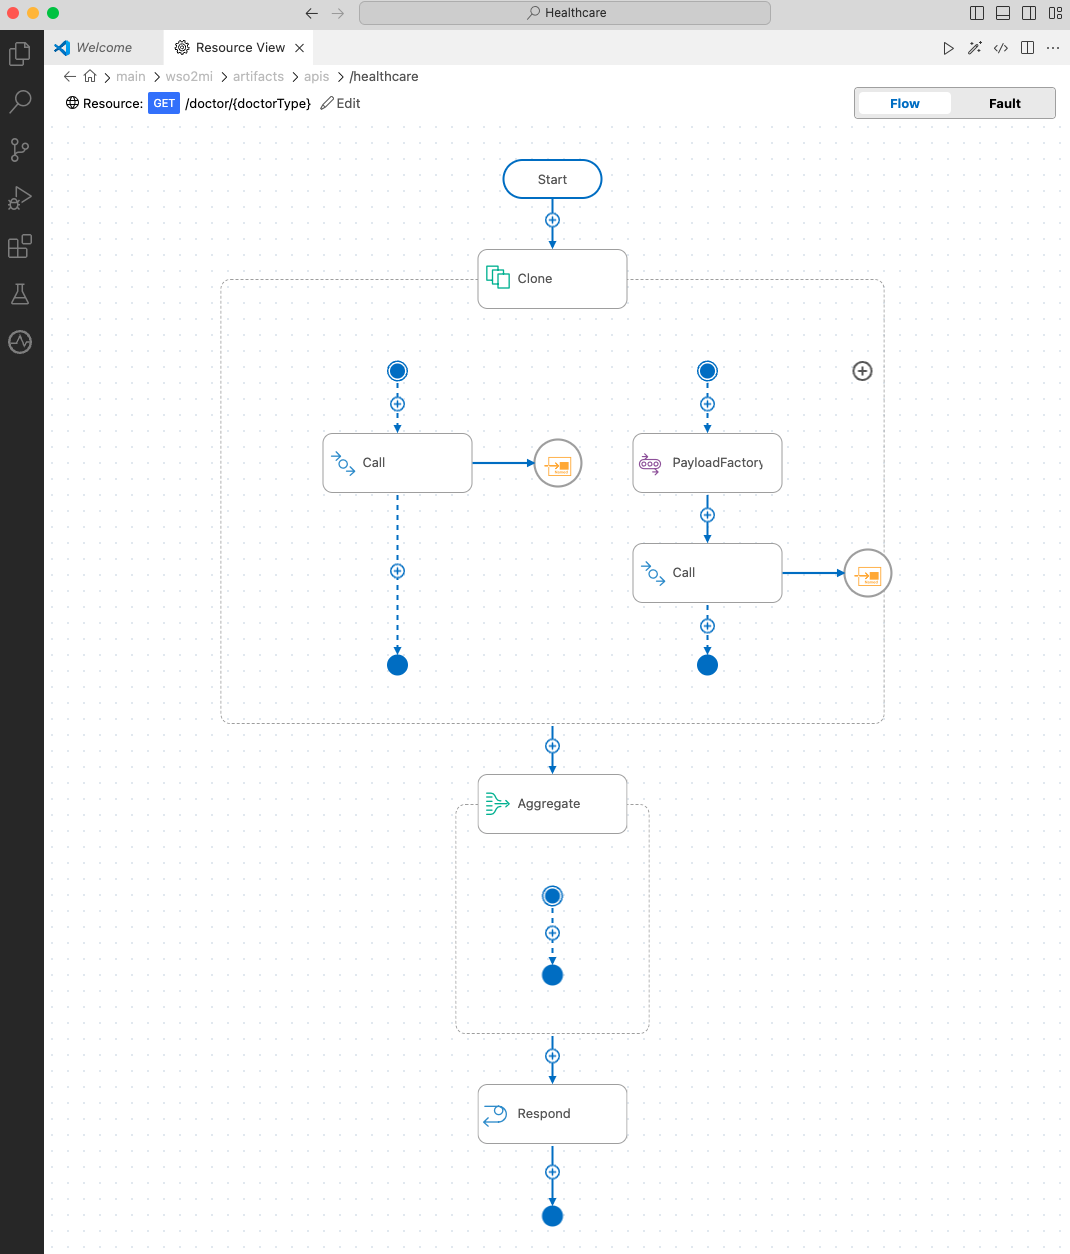
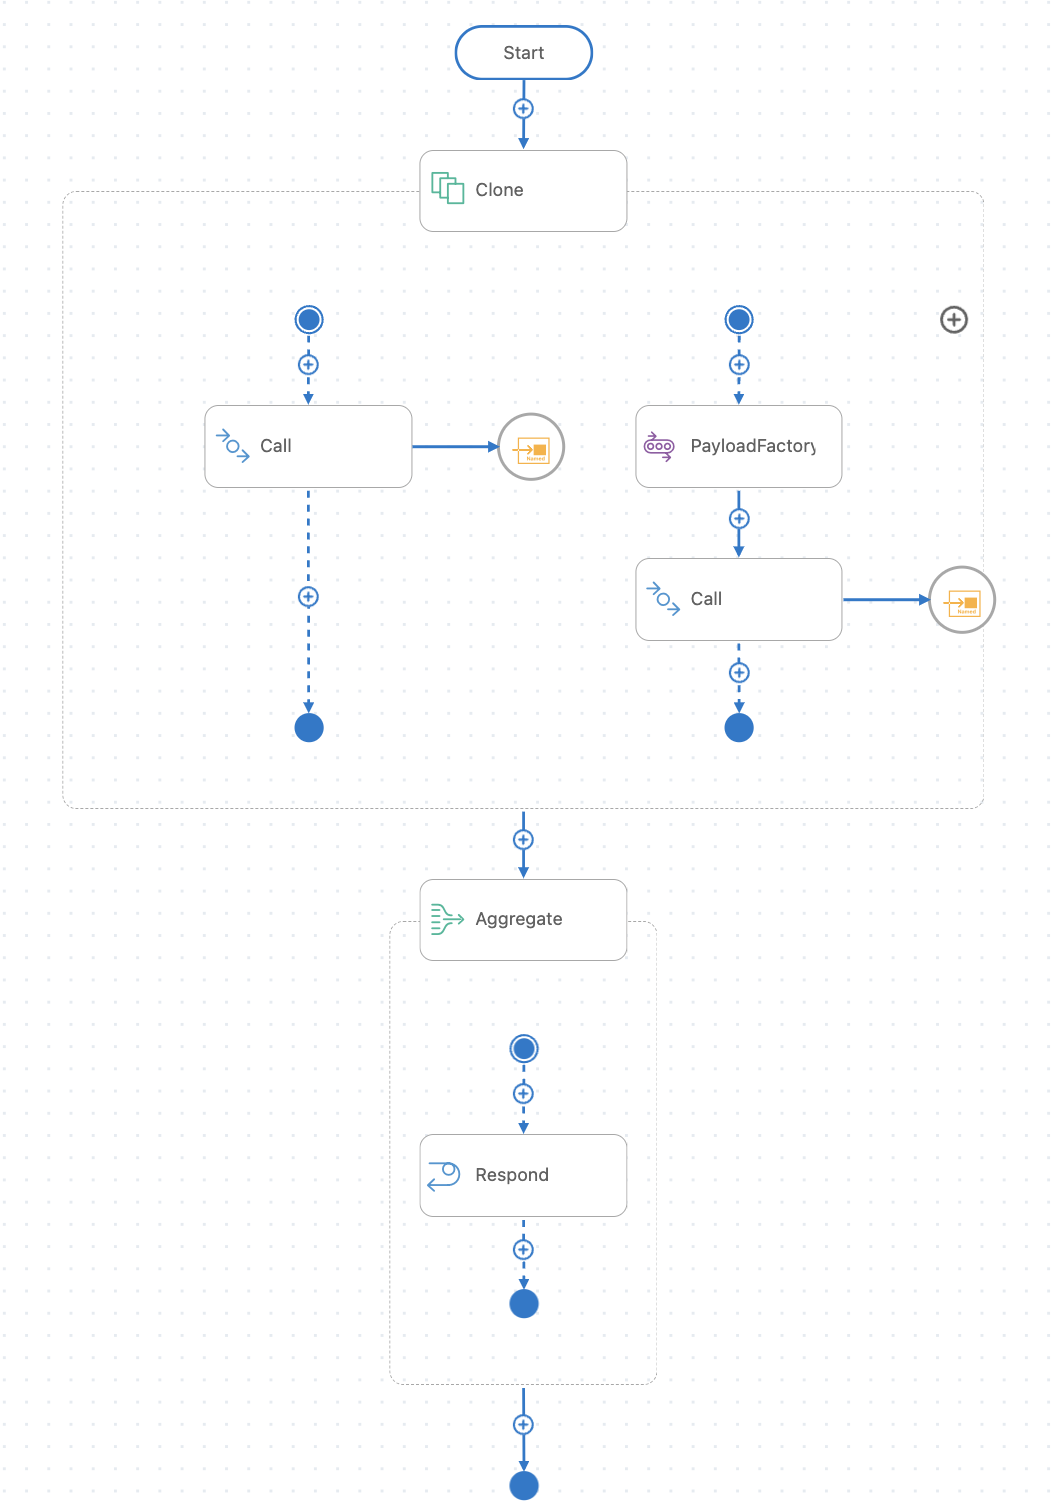
Update Develop Your First Integration

diff --git a/en/docs/get-started/development-kickstart.md b/en/docs/get-started/development-kickstart.md
@@ -417,41 +417,44 @@ Following is what you will see in the **Source View** of MI for VS Code.
 ```xml
 <?xml version="1.0" encoding="UTF-8"?>
 <api context="/healthcare" name="HealthcareAPI" xmlns="http://ws.apache.org/ns/synapse">
-   <resource methods="GET" uri-template="/doctor/{doctorType}">
-      <inSequence>
-         <clone>
-            <target>
-               <sequence>
-                  <call>
-                     <endpoint key="GrandOakEndpoint"/>
-                  </call>
-               </sequence>
-            </target>
-            <target>
-               <sequence>
-                  <payloadFactory media-type="json" template-type="default">
-                     <format>{ "doctorType": "$1" }</format>
-                     <args>
-                        <arg expression="$ctx:uri.var.doctorType" evaluator="xml"/>
-                     </args>
-                  </payloadFactory>
-                  <call>
-                     <endpoint key="PineValleyEndpoint"/>
-                  </call>
-               </sequence>
-            </target>
-         </clone>
-         <aggregate id="">
-            <completeCondition timeout="0">
-               <messageCount max="{-1}" min="{-1}"/>
-            </completeCondition>
-            <onComplete aggregateElementType="root" expression="json-eval($.doctors.doctor)"></onComplete>
-         </aggregate>
-         <respond/>
-      </inSequence>
-      <faultSequence>
-      </faultSequence>
-   </resource>
+    <resource methods="GET" uri-template="/doctor/{doctorType}">
+        <inSequence>
+            <clone>
+                <target>
+                    <sequence>
+                        <call>
+                            <endpoint key="GrandOakEndpoint"/>
+                        </call>
+                    </sequence>
+                </target>
+                <target>
+                    <sequence>
+                        <payloadFactory media-type="json">
+                            <format>{
+                                "doctorType": "$1"
+                                }
+                            </format>
+                            <args>
+                                <arg evaluator="xml" expression="$ctx:uri.var.doctorType"/>
+                            </args>
+                        </payloadFactory>
+                        <call>
+                            <endpoint key="PineValleyEndpoint"/>
+                        </call>
+                    </sequence>
+                </target>
+            </clone>
+            <aggregate>
+                <completeCondition>
+                    <messageCount max="-1" min="-1"/>
+                </completeCondition>
+                <onComplete expression="json-eval($.doctors.doctor)">
+                    <respond/>
+                </onComplete>
+            </aggregate>
+        </inSequence>
+        <faultSequence/>
+    </resource>
 </api>
 ```
 
